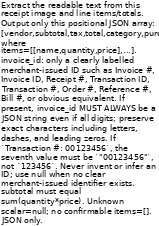
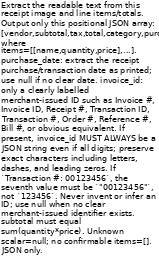
fix(ocr): explicitly request purchase date

diff --git a/scripts/generate_ocr_prompt_array.py b/scripts/generate_ocr_prompt_array.py
@@ -8,7 +8,7 @@ WIDTH=159
 FONT_SIZE=8
 MARGIN=1
 LINE_SPACING=1
-PROMPT='Extract the readable text from this receipt image and line items/totals. Output only this positional JSON array: [vendor,subtotal,tax,total,category,purchase_date,invoice_id,items], where items=[[name,quantity,price],...]. invoice_id: only a clearly labelled merchant-issued ID such as Invoice #, Invoice ID, Receipt #, Transaction ID, Transaction #, Order #, Reference #, Bill #, or obvious equivalent. If present, invoice_id MUST ALWAYS be a JSON string even if all digits; preserve exact characters including letters, dashes, and leading zeros. If `Transaction #: 00123456`, the seventh value must be `"00123456"`, not `123456`. Never invent or infer an ID; use null when no clear merchant-issued identifier exists. subtotal must equal sum(quantity*price). Unknown scalar=null; no confirmable items=[]. JSON only.'
+PROMPT='Extract the readable text from this receipt image and line items/totals. Output only this positional JSON array: [vendor,subtotal,tax,total,category,purchase_date,invoice_id,items], where items=[[name,quantity,price],...]. purchase_date: extract the receipt purchase/transaction date as printed; use null if no clear date. invoice_id: only a clearly labelled merchant-issued ID such as Invoice #, Invoice ID, Receipt #, Transaction ID, Transaction #, Order #, Reference #, Bill #, or obvious equivalent. If present, invoice_id MUST ALWAYS be a JSON string even if all digits; preserve exact characters including letters, dashes, and leading zeros. If `Transaction #: 00123456`, the seventh value must be `"00123456"`, not `123456`. Never invent or infer an ID; use null when no clear merchant-issued identifier exists. subtotal must equal sum(quantity*price). Unknown scalar=null; no confirmable items=[]. JSON only.'
 
 def wrap(draw,font,text,max_width):
     lines=[]; current=""

diff --git a/cmd/apiserver/receipts.go b/cmd/apiserver/receipts.go
@@ -1053,7 +1053,7 @@ func (s *apiServer) attachSignedImageURL(ctx context.Context, data map[string]in
 func buildOCRPrompt(categoryOptions []string) string {
 	prompt := "Extract the readable text from this receipt image and line items/totals. Output only this positional JSON array: " +
 		"[vendor,subtotal,tax,total,category,purchase_date,invoice_id,items], where items=[[name,quantity,price],...]. " +
-		"invoice_id: only a clearly labelled merchant-issued ID such as Invoice #, Invoice ID, Receipt #, Transaction ID, Transaction #, Order #, Reference #, Bill #, or obvious equivalent. " +
+		"purchase_date: extract the receipt purchase/transaction date as printed; use null if no clear date. invoice_id: only a clearly labelled merchant-issued ID such as Invoice #, Invoice ID, Receipt #, Transaction ID, Transaction #, Order #, Reference #, Bill #, or obvious equivalent. " +
 		"If present, invoice_id MUST ALWAYS be a JSON string even if all digits; preserve exact characters including letters, dashes, and leading zeros. " +
 		"If `Transaction #: 00123456`, the seventh value must be `\"00123456\"`, not `123456`. Never invent or infer an ID; use null when no clear merchant-issued identifier exists. " +
 		"subtotal must equal sum(quantity*price). Unknown scalar=null; no confirmable items=[]. JSON only."

diff --git a/cmd/apiserver/receipt_purchase_date_prompt_test.go b/cmd/apiserver/receipt_purchase_date_prompt_test.go
@@ -1,0 +1,18 @@
+package main
+
+import (
+	"strings"
+	"testing"
+)
+
+func TestBuildOCRPromptExplicitlyRequestsPurchaseDate(t *testing.T) {
+	prompt := buildOCRPrompt(nil)
+	for _, phrase := range []string{
+		"purchase_date: extract the receipt purchase/transaction date as printed",
+		"use null if no clear date",
+	} {
+		if !strings.Contains(prompt, phrase) {
+			t.Fatalf("prompt does not explicitly require %q: %s", phrase, prompt)
+		}
+	}
+}
